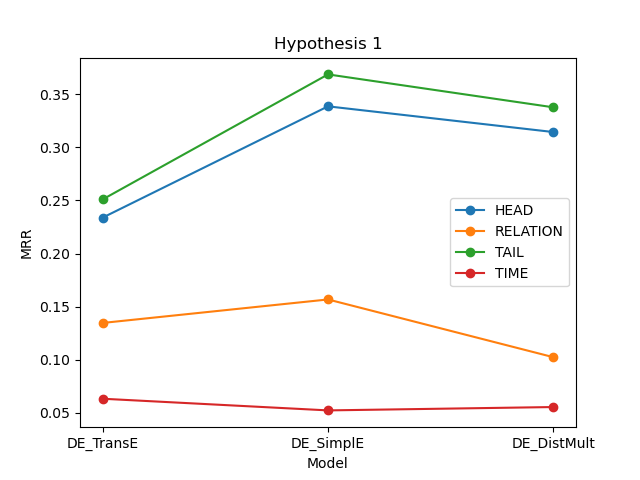
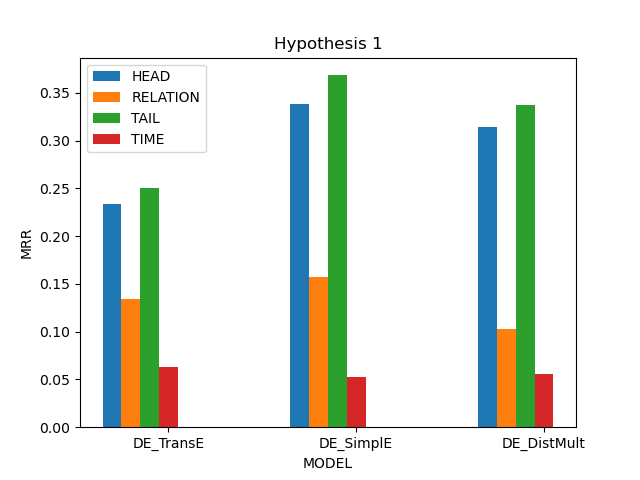
change from line plot to bar plot

diff --git a/statistics/plot.py b/statistics/plot.py
@@ -24,23 +24,28 @@ def hypothesis_1(filename):
                 yAxis_TAIL.append(value1['MRR'])
             elif key == 'TIME':
                 yAxis_TIME.append(value1['MRR'])
-                     
-    # LINE GRAPH
+    
+
+    # BAR GRAPH
     fig = plt.figure()
-    plt.plot(xAxis,yAxis_HEAD, marker='o', label='HEAD')
-    plt.plot(xAxis,yAxis_RELATION, marker='o', label='RELATION')
-    plt.plot(xAxis,yAxis_TAIL, marker='o', label='TAIL')
-    plt.plot(xAxis,yAxis_TIME, marker='o', label='TIME')
+    x = list(range(len(xAxis)))
+    width = 0.1
+    plt.bar(x, yAxis_HEAD, width=width, label='HEAD', tick_label=xAxis)
+    for i in range(len(xAxis)):
+        x[i] = x[i] + width
+    plt.bar(x, yAxis_RELATION, width=width, label='RELATION', tick_label=xAxis)
+    for i in range(len(xAxis)):
+        x[i] = x[i] + width
+    plt.bar(x, yAxis_TAIL, width=width, label='TAIL', tick_label=xAxis)
+    for i in range(len(xAxis)):
+        x[i] = x[i] + width
+    plt.bar(x, yAxis_TIME, width=width, label='TIME', tick_label=xAxis)
     
     plt.xlabel('MODEL')
     plt.ylabel('MRR')
     plt.title('Hypothesis 1')
     plt.legend()
     fig.savefig("figure/icews14/hypothesis_1.png")
-
-
-def hypothesis_2(filename):
-    pass
 
 
 #  Time Series Plot
@@ -240,8 +245,8 @@ def relation_distribution(filename, type):
 
 
 if __name__ == '__main__':
-    # hypothesis_1('result/icews14/hypothesis_1.json')
+    hypothesis_1('result/icews14/hypothesis_1.json')
     # time_distribution('result/icews14/hypothesis_2_time.json', 'mrr')
     # entity_distribution('result/icews14/hypothesis_2_entity.json', 'mrr')
-    relation_distribution('result/icews14/hypothesis_2_relation.json', 'num')
+    # relation_distribution('result/icews14/hypothesis_2_relation.json', 'num')
     
